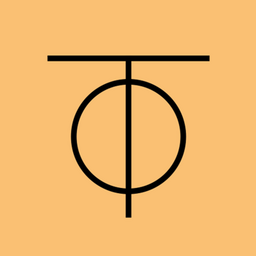
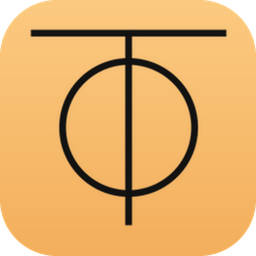
style: 图标规范 + Web 流光背景 + 署名修正，版本升至 1.3.7
- 图标改为飞牛规范的圆角矩形（四角透明、留白规整），补齐 64px 入口图标
- Web 管理界面背景升级为动态流光（暖金/午夜蓝对角线流动，纯 CSS，适配减弱动态效果）
- 修正应用详情页开发者/发布者署名：开发者 ZeroTier（上游），发布者 梳油头的小男孩（fnOS 适配分发）
- manifest version 升至 1.3.7，新增 changelog 字段
- 移除残留 .DS_Store 与 zerotier.png

注：发布包 zerotierone-1.3.7.fpk 仅作为 GitHub Release 资产，不入库（遵循 Remove release package 约定）

diff --git a/app/ui/index.html b/app/ui/index.html
@@ -39,11 +39,254 @@
         }
 
         .kinetic-bg {
-            background-color: #0b0e14;
+            background-color: #0e1428;
+            position: relative;
+        }
+
+        /* 主渐变 A：右上暖金 → 正中午夜蓝 → 左下暖金（对角对称） */
+        .kinetic-bg::before {
+            content: '';
+            position: fixed;
+            inset: 0;
+            z-index: 0;
+            pointer-events: none;
+            background: linear-gradient(225deg,
+                    #f5c451 0%,
+                    #e8a832 7%,
+                    #c8862a 14%,
+                    #9a5f36 22%,
+                    #6e4550 30%,
+                    #4a3560 37%,
+                    #2e2a63 43%,
+                    #16204a 50%,
+                    #2e2a63 57%,
+                    #4a3560 63%,
+                    #6e4550 70%,
+                    #9a5f36 78%,
+                    #c8862a 86%,
+                    #e8a832 93%,
+                    #f5c451 100%);
+            background-size: 300% 300%;
+            animation: aurora-flow 32s ease-in-out infinite;
+        }
+
+        @keyframes aurora-flow {
+            0%   { background-position: 100% 0%; }
+            50%  { background-position: 0% 100%; }
+            100% { background-position: 100% 0%; }
+        }
+
+        /* 主渐变 B：左下暖金 → 正中午夜蓝 → 右上暖金（反向对角，柔和叠加） */
+        .bg-aurora {
+            position: fixed;
+            inset: 0;
+            z-index: 0;
+            pointer-events: none;
+            opacity: 0.55;
+            background: linear-gradient(45deg,
+                    #f5c451 0%,
+                    #e8a832 7%,
+                    #c8862a 14%,
+                    #9a5f36 22%,
+                    #6e4550 30%,
+                    #4a3560 37%,
+                    #2e2a63 43%,
+                    #16204a 50%,
+                    #2e2a63 57%,
+                    #4a3560 63%,
+                    #6e4550 70%,
+                    #9a5f36 78%,
+                    #c8862a 86%,
+                    #e8a832 93%,
+                    #f5c451 100%);
+            background-size: 300% 300%;
+            animation: aurora-flow-b 40s ease-in-out infinite;
+        }
+
+        @keyframes aurora-flow-b {
+            0%   { background-position: 0% 100%; }
+            50%  { background-position: 100% 0%; }
+            100% { background-position: 0% 100%; }
+        }
+
+        /* 溢彩层：暖光踞两角、紫光作过渡、蓝光聚正中，缓慢翻涌 */
+        .kinetic-bg::after {
+            content: '';
+            position: fixed;
+            inset: -25%;
+            z-index: 0;
+            pointer-events: none;
+            mix-blend-mode: screen;
+            background:
+                radial-gradient(ellipse 46% 38% at 88% 8%, rgba(255, 190, 74, 0.34) 0%, transparent 60%),
+                radial-gradient(ellipse 46% 38% at 10% 92%, rgba(255, 190, 74, 0.34) 0%, transparent 60%),
+                radial-gradient(ellipse 40% 34% at 70% 30%, rgba(158, 104, 210, 0.24) 0%, transparent 58%),
+                radial-gradient(ellipse 40% 34% at 30% 70%, rgba(158, 104, 210, 0.24) 0%, transparent 58%),
+                radial-gradient(ellipse 52% 42% at 50% 50%, rgba(58, 96, 220, 0.34) 0%, transparent 62%);
+            filter: blur(64px) saturate(130%);
+            will-change: transform;
+            animation: aurora-swirl 36s ease-in-out infinite;
+        }
+
+        @keyframes aurora-swirl {
+            0%, 100% { transform: translate3d(2%, -2%, 0) scale(1) rotate(0deg); }
+            50%      { transform: translate3d(-2%, 2%, 0) scale(1.10) rotate(2deg); }
+        }
+
+        /* 星点：三层视差 + 散景大光点，中心冷蓝 / 两角暖金 / 过渡淡紫 */
+        .bg-sparkles {
+            position: fixed;
+            inset: 0;
+            z-index: 0;
+            pointer-events: none;
             background-image:
-                radial-gradient(circle at 100% 0%, rgba(255, 176, 0, 0.15) 0%, transparent 40%),
-                radial-gradient(circle at 0% 100%, rgba(255, 176, 0, 0.1) 0%, transparent 50%);
-            background-attachment: fixed;
+                radial-gradient(1.2px 1.2px at 3.78% 0.47%, rgba(222,208,236,0.42) 0%, transparent 100%),
+                radial-gradient(1px 1px at 11.38% 79.74%, rgba(255,224,170,0.42) 0%, transparent 100%),
+                radial-gradient(1.2px 1.2px at 23.0% 39.06%, rgba(222,208,236,0.42) 0%, transparent 100%),
+                radial-gradient(1.4px 1.4px at 4.23% 84.6%, rgba(255,224,170,0.55) 0%, transparent 100%),
+                radial-gradient(1.4px 1.4px at 30.46% 71.72%, rgba(255,224,170,0.68) 0%, transparent 100%),
+                radial-gradient(1px 1px at 46.53% 90.38%, rgba(222,208,236,0.68) 0%, transparent 100%),
+                radial-gradient(1.4px 1.4px at 88.04% 50.32%, rgba(222,208,236,0.42) 0%, transparent 100%),
+                radial-gradient(1px 1px at 78.56% 22.5%, rgba(255,224,170,0.55) 0%, transparent 100%),
+                radial-gradient(1.4px 1.4px at 49.37% 49.41%, rgba(190,215,255,0.34) 0%, transparent 100%),
+                radial-gradient(1px 1px at 90.08% 60.97%, rgba(222,208,236,0.42) 0%, transparent 100%),
+                radial-gradient(1px 1px at 33.9% 9.79%, rgba(222,208,236,0.42) 0%, transparent 100%),
+                radial-gradient(1px 1px at 19.18% 1.04%, rgba(222,208,236,0.42) 0%, transparent 100%),
+                radial-gradient(1px 1px at 66.17% 17.0%, rgba(255,224,170,0.42) 0%, transparent 100%),
+                radial-gradient(1px 1px at 40.28% 12.7%, rgba(222,208,236,0.34) 0%, transparent 100%),
+                radial-gradient(1px 1px at 14.9% 21.11%, rgba(222,208,236,0.42) 0%, transparent 100%),
+                radial-gradient(1.4px 1.4px at 84.71% 67.47%, rgba(222,208,236,0.68) 0%, transparent 100%),
+                radial-gradient(1.2px 1.2px at 30.92% 7.82%, rgba(222,208,236,0.42) 0%, transparent 100%),
+                radial-gradient(1px 1px at 30.46% 4.89%, rgba(222,208,236,0.34) 0%, transparent 100%),
+                radial-gradient(1px 1px at 47.19% 4.39%, rgba(222,208,236,0.34) 0%, transparent 100%),
+                radial-gradient(1.4px 1.4px at 47.01% 31.37%, rgba(190,215,255,0.34) 0%, transparent 100%),
+                radial-gradient(1px 1px at 47.96% 52.84%, rgba(190,215,255,0.42) 0%, transparent 100%),
+                radial-gradient(1px 1px at 96.43% 84.08%, rgba(222,208,236,0.55) 0%, transparent 100%),
+                radial-gradient(1.4px 1.4px at 15.62% 85.31%, rgba(255,224,170,0.34) 0%, transparent 100%),
+                radial-gradient(1.4px 1.4px at 72.22% 3.08%, rgba(255,224,170,0.34) 0%, transparent 100%),
+                radial-gradient(1.4px 1.4px at 73.4% 46.31%, rgba(190,215,255,0.68) 0%, transparent 100%),
+                radial-gradient(1px 1px at 23.38% 4.69%, rgba(222,208,236,0.55) 0%, transparent 100%),
+                radial-gradient(1.2px 1.2px at 35.79% 99.13%, rgba(255,224,170,0.55) 0%, transparent 100%),
+                radial-gradient(1px 1px at 92.24% 93.27%, rgba(222,208,236,0.34) 0%, transparent 100%),
+                radial-gradient(1px 1px at 62.52% 27.1%, rgba(222,208,236,0.68) 0%, transparent 100%),
+                radial-gradient(1px 1px at 1.7% 0.58%, rgba(222,208,236,0.68) 0%, transparent 100%),
+                radial-gradient(1.4px 1.4px at 80.87% 91.71%, rgba(222,208,236,0.34) 0%, transparent 100%),
+                radial-gradient(1.4px 1.4px at 29.25% 32.8%, rgba(222,208,236,0.55) 0%, transparent 100%),
+                radial-gradient(1.2px 1.2px at 77.37% 1.91%, rgba(255,224,170,0.55) 0%, transparent 100%),
+                radial-gradient(1px 1px at 58.82% 66.56%, rgba(190,215,255,0.68) 0%, transparent 100%),
+                radial-gradient(1px 1px at 2.48% 75.43%, rgba(255,224,170,0.55) 0%, transparent 100%),
+                radial-gradient(1.2px 1.2px at 93.0% 26.82%, rgba(255,224,170,0.55) 0%, transparent 100%),
+                radial-gradient(1px 1px at 88.87% 32.52%, rgba(255,224,170,0.34) 0%, transparent 100%),
+                radial-gradient(1.2px 1.2px at 27.39% 23.89%, rgba(222,208,236,0.34) 0%, transparent 100%),
+                radial-gradient(1.2px 1.2px at 54.14% 1.94%, rgba(222,208,236,0.55) 0%, transparent 100%),
+                radial-gradient(1.4px 1.4px at 88.75% 83.1%, rgba(222,208,236,0.34) 0%, transparent 100%),
+                radial-gradient(1.2px 1.2px at 59.84% 3.69%, rgba(255,224,170,0.55) 0%, transparent 100%),
+                radial-gradient(1.4px 1.4px at 7.61% 55.07%, rgba(222,208,236,0.55) 0%, transparent 100%),
+                radial-gradient(1px 1px at 86.7% 96.7%, rgba(222,208,236,0.42) 0%, transparent 100%),
+                radial-gradient(1px 1px at 39.13% 86.54%, rgba(255,224,170,0.68) 0%, transparent 100%),
+                radial-gradient(1px 1px at 0.33% 73.82%, rgba(255,224,170,0.42) 0%, transparent 100%),
+                radial-gradient(1.4px 1.4px at 50.46% 55.52%, rgba(190,215,255,0.55) 0%, transparent 100%);
+            will-change: transform, opacity;
+            animation: star-a 60s linear infinite, twinkle-a 6s ease-in-out infinite;
+        }
+
+        .bg-sparkles::before {
+            content: '';
+            position: absolute;
+            inset: 0;
+            background-image:
+                radial-gradient(1.3px 1.3px at 30.86% 57.88%, rgba(190,215,255,0.44) 0%, transparent 100%),
+                radial-gradient(1.8px 1.8px at 60.19% 42.22%, rgba(190,215,255,0.26) 0%, transparent 100%),
+                radial-gradient(1.3px 1.3px at 20.38% 42.86%, rgba(222,208,236,0.34) 0%, transparent 100%),
+                radial-gradient(1.3px 1.3px at 52.88% 35.23%, rgba(190,215,255,0.26) 0%, transparent 100%),
+                radial-gradient(1.3px 1.3px at 4.39% 11.49%, rgba(222,208,236,0.44) 0%, transparent 100%),
+                radial-gradient(1px 1px at 9.09% 73.37%, rgba(255,224,170,0.26) 0%, transparent 100%),
+                radial-gradient(1.3px 1.3px at 83.92% 74.55%, rgba(222,208,236,0.26) 0%, transparent 100%),
+                radial-gradient(1px 1px at 25.52% 68.37%, rgba(255,224,170,0.26) 0%, transparent 100%),
+                radial-gradient(1.8px 1.8px at 22.93% 23.56%, rgba(222,208,236,0.44) 0%, transparent 100%),
+                radial-gradient(1.3px 1.3px at 5.11% 48.89%, rgba(222,208,236,0.44) 0%, transparent 100%),
+                radial-gradient(1.8px 1.8px at 62.23% 38.77%, rgba(190,215,255,0.44) 0%, transparent 100%),
+                radial-gradient(1.8px 1.8px at 85.5% 81.61%, rgba(222,208,236,0.26) 0%, transparent 100%),
+                radial-gradient(1.8px 1.8px at 46.97% 64.45%, rgba(190,215,255,0.44) 0%, transparent 100%),
+                radial-gradient(1.8px 1.8px at 48.79% 57.44%, rgba(190,215,255,0.34) 0%, transparent 100%),
+                radial-gradient(1.3px 1.3px at 63.99% 20.47%, rgba(255,224,170,0.34) 0%, transparent 100%),
+                radial-gradient(1.8px 1.8px at 10.48% 85.19%, rgba(255,224,170,0.34) 0%, transparent 100%),
+                radial-gradient(1.3px 1.3px at 19.21% 53.66%, rgba(222,208,236,0.44) 0%, transparent 100%),
+                radial-gradient(1px 1px at 54.1% 17.66%, rgba(222,208,236,0.44) 0%, transparent 100%),
+                radial-gradient(1.8px 1.8px at 70.34% 2.55%, rgba(255,224,170,0.26) 0%, transparent 100%),
+                radial-gradient(1.8px 1.8px at 67.5% 12.55%, rgba(255,224,170,0.26) 0%, transparent 100%),
+                radial-gradient(1.3px 1.3px at 79.17% 96.72%, rgba(222,208,236,0.44) 0%, transparent 100%),
+                radial-gradient(1.3px 1.3px at 31.09% 78.98%, rgba(255,224,170,0.34) 0%, transparent 100%),
+                radial-gradient(1px 1px at 80.44% 47.45%, rgba(222,208,236,0.26) 0%, transparent 100%),
+                radial-gradient(1.3px 1.3px at 74.78% 72.65%, rgba(222,208,236,0.44) 0%, transparent 100%),
+                radial-gradient(1.8px 1.8px at 13.9% 69.58%, rgba(255,224,170,0.44) 0%, transparent 100%),
+                radial-gradient(1.3px 1.3px at 99.37% 26.81%, rgba(255,224,170,0.44) 0%, transparent 100%),
+                radial-gradient(1.8px 1.8px at 5.44% 0.71%, rgba(222,208,236,0.26) 0%, transparent 100%),
+                radial-gradient(1.3px 1.3px at 77.33% 23.31%, rgba(255,224,170,0.26) 0%, transparent 100%),
+                radial-gradient(1.8px 1.8px at 65.63% 19.55%, rgba(255,224,170,0.34) 0%, transparent 100%),
+                radial-gradient(1px 1px at 96.64% 47.24%, rgba(222,208,236,0.26) 0%, transparent 100%);
+            animation: star-b 84s linear infinite, twinkle-b 9s ease-in-out infinite;
+        }
+
+        .bg-sparkles::after {
+            content: '';
+            position: absolute;
+            inset: 0;
+            background-image:
+                radial-gradient(3.2px 3.2px at 44.93% 61.17%, rgba(190,215,255,0.38) 0%, transparent 100%),
+                radial-gradient(3.2px 3.2px at 19.41% 96.74%, rgba(255,224,170,0.3) 0%, transparent 100%),
+                radial-gradient(3.8px 3.8px at 16.45% 21.74%, rgba(222,208,236,0.3) 0%, transparent 100%),
+                radial-gradient(3.8px 3.8px at 93.89% 63.24%, rgba(222,208,236,0.22) 0%, transparent 100%),
+                radial-gradient(3.2px 3.2px at 81.94% 59.75%, rgba(222,208,236,0.3) 0%, transparent 100%),
+                radial-gradient(3.2px 3.2px at 13.79% 26.11%, rgba(222,208,236,0.38) 0%, transparent 100%),
+                radial-gradient(3.8px 3.8px at 10.1% 54.05%, rgba(222,208,236,0.38) 0%, transparent 100%),
+                radial-gradient(2.6px 2.6px at 89.2% 58.99%, rgba(222,208,236,0.38) 0%, transparent 100%),
+                radial-gradient(3.2px 3.2px at 63.19% 59.13%, rgba(190,215,255,0.22) 0%, transparent 100%);
+            filter: blur(1.4px);
+            animation: star-c 110s linear infinite, twinkle-a 13s ease-in-out infinite reverse;
+        }
+
+        @keyframes star-a {
+            0%   { transform: translate3d(1.2%, -1.2%, 0); }
+            100% { transform: translate3d(-1.2%, 1.2%, 0); }
+        }
+
+        @keyframes star-b {
+            0%   { transform: translate3d(-2.2%, 1.6%, 0); }
+            100% { transform: translate3d(2.2%, -1.6%, 0); }
+        }
+
+        @keyframes star-c {
+            0%   { transform: translate3d(0, 0, 0); }
+            100% { transform: translate3d(-1.4%, -2.6%, 0); }
+        }
+
+        @keyframes twinkle-a {
+            0%, 100% { opacity: 0.42; }
+            50%      { opacity: 0.95; }
+        }
+
+        @keyframes twinkle-b {
+            0%, 100% { opacity: 0.30; }
+            50%      { opacity: 0.78; }
+        }
+
+        /* 内容层置于背景之上 */
+        .glass-card {
+            position: relative;
+            z-index: 1;
+        }
+
+        /* 尊重系统「减弱动态效果」设置 */
+        @media (prefers-reduced-motion: reduce) {
+            .kinetic-bg::before,
+            .kinetic-bg::after,
+            .bg-aurora,
+            .bg-sparkles,
+            .bg-sparkles::before,
+            .bg-sparkles::after {
+                animation: none !important;
+            }
         }
 
         .glass-card {
@@ -95,6 +338,9 @@
 </head>
 
 <body class="font-body text-on-surface kinetic-bg min-h-screen flex items-center justify-center p-4 tracking-wide">
+
+    <div class="bg-aurora" aria-hidden="true"></div>
+    <div class="bg-sparkles" aria-hidden="true"></div>
 
     <div class="glass-card w-full max-w-[500px] rounded-2xl overflow-hidden flex flex-col">
         <header class="p-6 pb-4 flex justify-between items-center border-b border-white/5">

diff --git a/README.md b/README.md
@@ -7,6 +7,13 @@
 > 底层网络核心、二进制与协议遵循 ZeroTier 相关开源许可证；本应用的上层封装与 UI 遵循 MIT 协议。
 > 版权归属：网络核心 © ZeroTier, LLC；fnOS 适配层 © 梳油头的小男孩。
 
+## 👥 开发者与发布者
+
+| 角色 | 名称 | 链接 | 职责 |
+|---|---|---|---|
+| **开发者（上游）** | ZeroTier | https://github.com/zerotier/ZeroTierOne | ZeroTier One 网络核心、守护进程与协议实现 |
+| **发布者（fnOS 适配）** | 梳油头的小男孩 | https://github.com/gantaogantao/ZeroTierOne-fnOS | 飞牛 fnOS 原生适配、可视化 Web 管理界面、应用打包与分发 |
+
 本应用是针对飞牛 fnOS 深度定制的 ZeroTier One 客户端，集成了高性能网络服务与现代化的 Web 管理界面。
 
 ## 🛠 功能概览
@@ -58,6 +65,10 @@
 * ✅ 支持 x86_64 架构
 
 ## 📝 更新日志
+
+### v1.3.7
+* **修正开发者 / 发布者署名**：应用详情页此前「开发者」与「发布者」显示为同一人且链接均指向 zerotier.com。现按飞牛 manifest 规范修正为——开发者：ZeroTier（上游 ZeroTier One 项目），发布者：梳油头的小男孩（fnOS 适配与分发），两者链接分别指向各自仓库。
+* **图标改为符合飞牛设计规范的圆角矩形**：原图标为直角橙色方块满铺画布，在桌面上四角突兀。现重制为圆角矩形主体（圆角半径 22%、四角透明、主体留白 10%），与系统图标风格一致；同时补齐此前缺失的 64px 入口图标 `icon_64.png`。
 
 ### v1.3.6
 * **修复 Web 管理界面偶发打不开**：Web 子进程（端口 9994）在某些环境下会静默退出，而原版健康检查只盯着 VPN 核心（9993），导致应用中心显示"运行中"但管理页实际已不可访问。

diff --git a/README-en.md b/README-en.md
@@ -1,5 +1,19 @@
 # ZeroTier One for fnOS
 
+[中文说明](README.md) | English
+
+> **A derivative work based on [ZeroTier One](https://github.com/zerotier/ZeroTierOne)**
+> This application repackages ZeroTier One (open-sourced by ZeroTier, LLC) as a native client deeply customized for feiniu fnOS (visual web management UI + native fnOS lifecycle integration).
+> The underlying network core, binaries and protocol follow ZeroTier's open-source license; the packaging layer and UI of this application are released under MIT.
+> Copyright: network core © ZeroTier, LLC; fnOS integration layer © 梳油头的小男孩.
+
+## 👥 Developer & Distributor
+
+| Role | Name | Link | Responsibility |
+|---|---|---|---|
+| **Developer (upstream)** | ZeroTier | https://github.com/zerotier/ZeroTierOne | ZeroTier One network core, daemon and protocol implementation |
+| **Distributor (fnOS port)** | 梳油头的小男孩 | https://github.com/gantaogantao/ZeroTierOne-fnOS | Native fnOS integration, visual web management UI, packaging and distribution |
+
 Native ZeroTier One client package customized for **feiniu (fnOS) NAS system**, featuring high-performance network service with a modern web-based management UI.
 
 ## 🛠 Features
